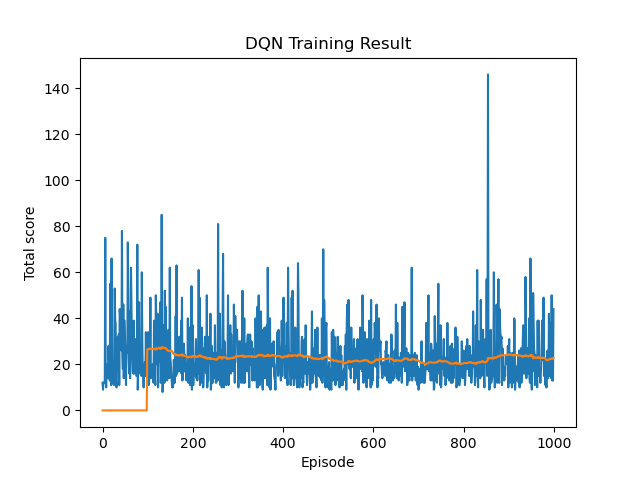
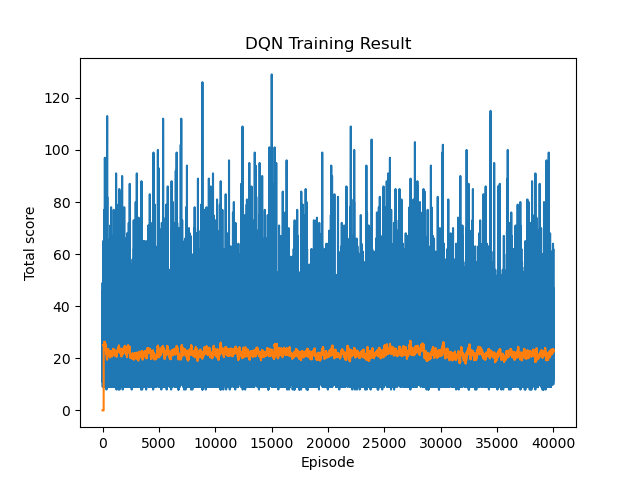
Add PPO implementation
* Implement PPO

* Update doc and refactor

* Update param

* refactor

* Add .gitignore

* Update

---------

diff --git a/actor_critic/train.py b/actor_critic/train.py
@@ -1,0 +1,115 @@
+import numpy as np
+import torch
+from torch import optim, nn
+
+from actor_critic.config import get_config
+from actor_critic.model import Agent
+import gymnasium as gym
+
+from actor_critic.visualizer import plot_score
+
+def train_ppo_agent(config:dict, device):
+    update_nums = config["update_nums"]
+    batch_size = config["batch_size"]
+    epochs = config["epochs"]
+    epsilon = config["epsilon"]
+    max_terminal_steps = config["max_terminal_steps"]
+    gamma = config["gamma"]
+    lambda_val = config["lambda"]
+    lr = config["learning_rate"]
+
+    env = gym.make("CartPole-v1")
+    obs_dim = env.observation_space.shape[0]
+    action_dim = env.action_space.n
+
+    agent = Agent(obs_dim, action_dim).to(device)
+    optimizer = optim.AdamW(agent.parameters(), lr=lr, amsgrad=True)
+    scores = []
+
+    for update in range(update_nums):
+        state, _ = env.reset()
+        state = torch.tensor(state, dtype=torch.float32, device=device)
+        rewards = []
+        transition_buffer = []  # Store transitions
+
+        # Collect experience data
+        for step in range(0, max_terminal_steps):
+            with torch.no_grad():
+                action, log_prob, entropy, value = agent.get_action_and_value(state)
+                next_state, reward, terminated, truncated, _ = env.step(action.item())
+                next_state = torch.tensor(next_state, dtype=torch.float32, device=device)
+                transition_buffer.append((state, action, log_prob, reward, value, terminated))
+                state = next_state
+                rewards.append(reward)
+
+                if terminated or truncated:
+                    state, _ = env.reset()
+                    state = torch.tensor(state, dtype=torch.float32, device=device)
+                    scores.append(sum(rewards))
+
+        # Process collected data
+        states, actions, log_probs, rewards, values, dones = zip(*transition_buffer)
+        states = torch.stack(states)
+        log_probs = torch.stack(log_probs)
+        values = torch.cat(values).squeeze()
+
+        # Compute Generalized Advantage Estimation (GAE)
+        with torch.no_grad():
+            next_value = agent.get_value(state).squeeze()
+            values = torch.cat([values, next_value.unsqueeze(0)])  # Append final value for GAE computation
+            advantages, returns = compute_gae(rewards, values, dones, gamma, lambda_val)
+            advantages = torch.tensor(advantages, dtype=torch.float32, device=device)
+            returns = torch.tensor(returns, dtype=torch.float32, device=device)
+
+        # Use PPO-CLIP algorithm to update the agent parameters
+        # epoch: number of gradient updates to perform on the same batch of collected experiences before collecting new data
+        for _ in range(epochs):
+            indices = np.random.permutation(len(transition_buffer))
+            for i in range(0, len(transition_buffer), batch_size):
+                batch_idx = indices[i:i + batch_size]
+
+                batch_states = states[batch_idx]
+                batch_log_probs = log_probs[batch_idx]
+                batch_advantages = advantages[batch_idx]
+                batch_returns = returns[batch_idx]
+
+                _, new_log_probs, entropy, new_values = agent.get_action_and_value(batch_states)
+                ratio = (new_log_probs - batch_log_probs).exp()
+
+                # Compute clipped surrogate loss
+                clipped_ratio = torch.clamp(ratio, 1 - epsilon, 1 + epsilon)
+                policy_loss = -torch.min(ratio * batch_advantages, clipped_ratio * batch_advantages).mean()
+
+                # Value function loss (MSE)
+                value_loss = nn.functional.mse_loss(new_values.squeeze(), batch_returns)
+
+                # Total loss
+                loss = policy_loss + 0.5 * value_loss - 0.01 * entropy.mean()
+
+                optimizer.zero_grad()
+                loss.backward()
+                optimizer.step()
+
+        print(f"update: {update}, Loss: {loss.item()}")
+
+    env.close()
+    return scores
+
+def compute_gae(rewards, values, dones, gamma, lam):
+    advantages = np.zeros_like(rewards)
+    returns = np.zeros_like(rewards)
+    gae = 0
+    for t in reversed(range(len(rewards))):
+        delta = rewards[t] + gamma * values[t + 1] * (1 - dones[t]) - values[t]
+        gae = delta + gamma * lam * (1 - dones[t]) * gae
+        advantages[t] = gae
+        returns[t] = advantages[t] + values[t]
+    return advantages, returns
+
+if __name__ == "__main__":
+    device = "cuda" if torch.cuda.is_available() else "mps" \
+        if torch.backends.mps.is_built() or torch.backends.mps.is_available() else "cpu"
+    print("Using device:", device)
+    config = get_config()
+    scores = train_ppo_agent(config, device)
+    plot_score(scores, title="PPO training result")

diff --git a/dqn/train.py b/dqn/train.py
@@ -30,14 +30,16 @@ class ReplayMemory(object):
     def __len__(self):
         return len(self.memory)
 
-def optimize_model(config: dict, device, relay_memory: ReplayMemory, policy_net: DQN, target_net: DQN, optimizer):
+def optimize_dqn(config: dict, device, relay_memory: ReplayMemory, policy_net: DQN, target_net: DQN, optimizer):
     batch_size = int(config["batch_size"])
 
     if len(relay_memory) < batch_size:
         return
     transitions = relay_memory.sample(batch_size)
-    # zip(*transitions) unzips the list of tuples into four separate lists (states, actions, next_states, rewards).
-    # Transition(*zip(*transitions)) reconstructs them back into a Transition object batch containing lists of each component.
+    # zip(*transitions) unzips the list of Transition tuples into four separate lists (states, actions, next_states, rewards).
+    # Transition(*zip(*transitions)) reconstructs them back into a Transition object, each element containing a list of separate elements.
+    # Ex: Transition(s1, a1, s1', r1), Transition(s2, a2, s2', r2), Transition(s3, a3, s3', r3)
+    # Transition(*zip(*transitions)): Transition(states = [s1, s2, s3], actions = [a1, a2, a3], next_states = [s1', s2', s3'], rewards = [r1, r2, r3])
     batch = Transition(*zip(*transitions))
 
     # final state is the one where the agent terminates the episode due to reaching a terminal state,
@@ -56,7 +58,7 @@ def optimize_model(config: dict, device, relay_memory: ReplayMemory, policy_net:
         next_state_values[non_final_mask] = target_net(non_final_next_states).max(1).values
     expected_state_action_values = (next_state_values * float(config["gamma"])) + reward_batch
 
-    # Compute Huber loss
+    # Use Huber loss to compute the loss to stabilize learning when minimizing TD error
     criterion = nn.SmoothL1Loss()
     loss = criterion(state_action_values, expected_state_action_values.unsqueeze(1))
 
@@ -88,7 +90,8 @@ def train_dqn(config:dict, device):
     n_observations = len(state)
 
     # Policy network: Main network in DQN, update every training step using gradient descent, calculate Q(s,a) and used for action selection.
-    # Target network: Copy of the policy network, used to stabilize Q-value targets in the loss function. Its weights are updated at a slower rate or via soft updates.
+    # Target network: Copy of the policy network, used to stabilize Q-value targets in the loss function.
+    # Its weights are updated at a slower rate or via soft updates.
     policy_net = DQN(n_observations, n_actions).to(device)
     target_net = DQN(n_observations, n_actions).to(device)
     target_net.load_state_dict(policy_net.state_dict())
@@ -122,9 +125,9 @@ def train_dqn(config:dict, device):
             relay_memory.push(state, action, next_state, reward)
             state = next_state
             # Perform optimization on the policy network
-            optimize_model(config, device, relay_memory, policy_net, target_net, optimizer)
+            optimize_dqn(config, device, relay_memory, policy_net, target_net, optimizer)
 
-            # Soft update of the target network's weights
+            # Soft update the target network's weights using parameters from the policy network
             # θ′ ← τ θ + (1 −τ )θ′
             target_net_state_dict = target_net.state_dict()
             policy_net_state_dict = policy_net.state_dict()

diff --git a/actor_critic/model.py b/actor_critic/model.py
@@ -1,0 +1,33 @@
+from torch import nn
+from torch.distributions import Categorical
+
+class Agent(nn.Module):
+    def __init__(self, obs_dim, action_dim, hidden_dim=128):
+        super().__init__()
+        # Output layer outputs one value for the given state, which is used for GAE estimation
+        self.critic = nn.Sequential(
+            nn.Linear(obs_dim, hidden_dim),
+            nn.Tanh(),
+            nn.Linear(hidden_dim, hidden_dim),
+            nn.Tanh(),
+            nn.Linear(hidden_dim, 1)
+        )
+
+        # Output layer outputs probabilities for each action
+        self.actor = nn.Sequential(
+            nn.Linear(obs_dim, hidden_dim),
+            nn.Tanh(),
+            nn.Linear(hidden_dim, hidden_dim),
+            nn.Tanh(),
+            nn.Linear(hidden_dim, action_dim),
+        )
+
+    def get_value(self, x):
+        return self.critic(x)
+
+    def get_action_and_value(self, x, action=None):
+        logits = self.actor(x)
+        probs = Categorical(logits=logits)
+        if action is None:
+            action = probs.sample()
+        return action, probs.log_prob(action), probs.entropy(), self.critic(x)

diff --git a/actor_critic/visualizer.py b/actor_critic/visualizer.py
@@ -1,0 +1,23 @@
+import matplotlib.pyplot as plt
+import torch
+
+"""
+Visualize total accumulated scores over training episodes. 
+This helps analyze how well the agent is learning over time(longer durations → better policy). 
+"""
+def plot_score(episode_scores=[], title="Result"):
+    plt.figure(1)
+    scores_tensor = torch.tensor(episode_scores, dtype=torch.float)
+    plt.title(title)
+    plt.xlabel('Episode')
+    plt.ylabel('Total score')
+    plt.plot(scores_tensor.numpy())
+    # Take 100 episode averages and plot them too
+    if len(scores_tensor) >= 100:
+        means = scores_tensor.unfold(0, 100, 1).mean(1).view(-1)
+        means = torch.cat((torch.zeros(99), means))
+        plt.plot(means.numpy())
+
+    plt.pause(0.001)  # pause a bit so that plots are updated
+    plt.savefig("ppo_train_result.png")
+    plt.show()

diff --git a/dqn/model.py b/dqn/model.py
@@ -1,6 +1,10 @@
 import torch.nn as nn
 import torch.nn.functional as F
 
+'''
+DQN model takes non_final_next_states (next states that are not terminal) and returns Q-values for all possible actions.
+So that it could be used to get the max value for epsilon-greedy action selection.
+'''
 class DQN(nn.Module):
 
     def __init__(self, n_observations, n_actions, hidden_size=128):

diff --git a/policy_gradient/config.py b/policy_gradient/config.py
@@ -1,7 +1,7 @@
 cartpole_hyperparameters = {
     "h_size": 128,
-    "n_training_episodes": 1000,
-    "n_evaluation_episodes": 1000,
+    "n_training_episodes": 40000,
+    "n_evaluation_episodes": 40000,
     "gamma": 1.0,
     "lr": 1e-2,
     "checkpoint_path": "model/checkpoint",

diff --git a/actor_critic/config.py b/actor_critic/config.py
@@ -1,0 +1,11 @@
+def get_config():
+    return {
+        "learning_rate": 1e-3,
+        "epsilon": 0.2,
+        "gamma": 0.99,
+        "lambda": 0.95,
+        "epochs": 10,
+        "batch_size": 128,
+        "update_nums": 1000,
+        "max_terminal_steps": 1000,
+    }

diff --git a/dqn/config.py b/dqn/config.py
@@ -8,7 +8,7 @@ def get_config():
         "epsilon_decay": 1_000,
         "tau": 5e-3,
         "gamma": 0.99,
-        "num_episodes": 1_000,
+        "num_episodes": 40_000,
         "tensorboard_path": "run/dqn_tensorboard",
         "model_path": "model/dqn_model"
     }

diff --git a/actor_critic/README.md b/actor_critic/README.md
@@ -1,0 +1,16 @@
+# Actor Critic
+A practical PPO (one Actor Critic) reinforcement learning implementation and training for the CartPole-v1 environment.
+
+## Dependency Management
+Use [Conda](https://docs.conda.io/projects/conda/en/latest/user-guide/getting-started.html) to manage the environment and 3rd party libraries.
+All the required dependencies are put in requirements.txt.
+* Create an environment `conda create -n ac python=3.12`
+* Activate the environment `conda activate ac`
+* * Install the dependencies 
+  * `conda install --yes --file actor_critic/requirements.txt`
+
+## Training
+* Run script directly, `python3 -m actor_critic.train` or just run train.py script in your IDE.
+* ![One training run result](./ppo_train_result.png)
+## References
+* https://huggingface.co/learn/deep-rl-course/unit8/hands-on-cleanrl

diff --git a/README.md b/README.md
@@ -5,3 +5,5 @@
     * This package contains a practical c Deep Q-Network (DQN) implementation, training, and inference for the CartPole-v1 environment.
 * [policy_gradient](./policy_gradient/README.md)
     * This package contains a practical for policy gradient implementation, training, and evaluation for the CartPole-v1 environment.
+* [actor_critic](./actor_critic/README.md)
+  * This package contains a practical PPO reinforcement learning implementation and training for the CartPole-v1 environment.
